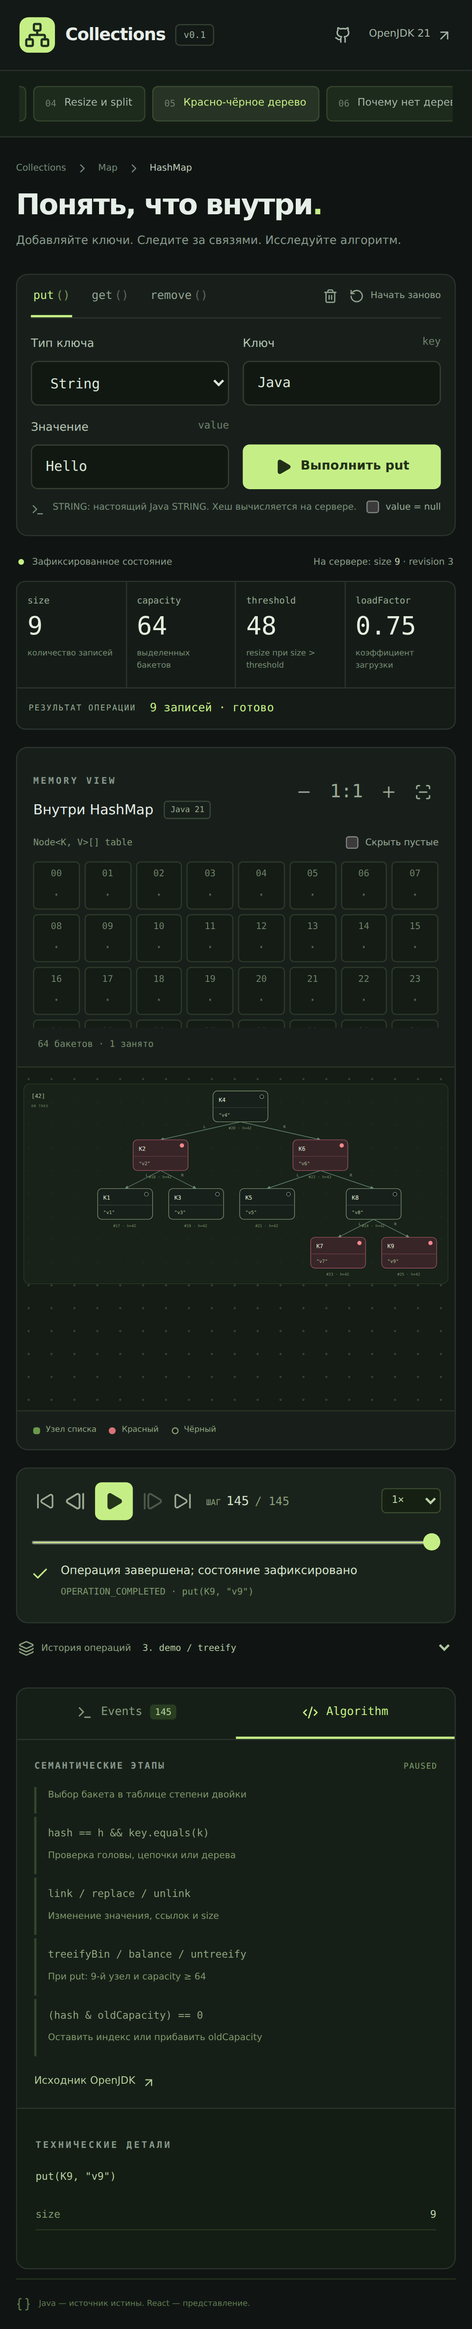
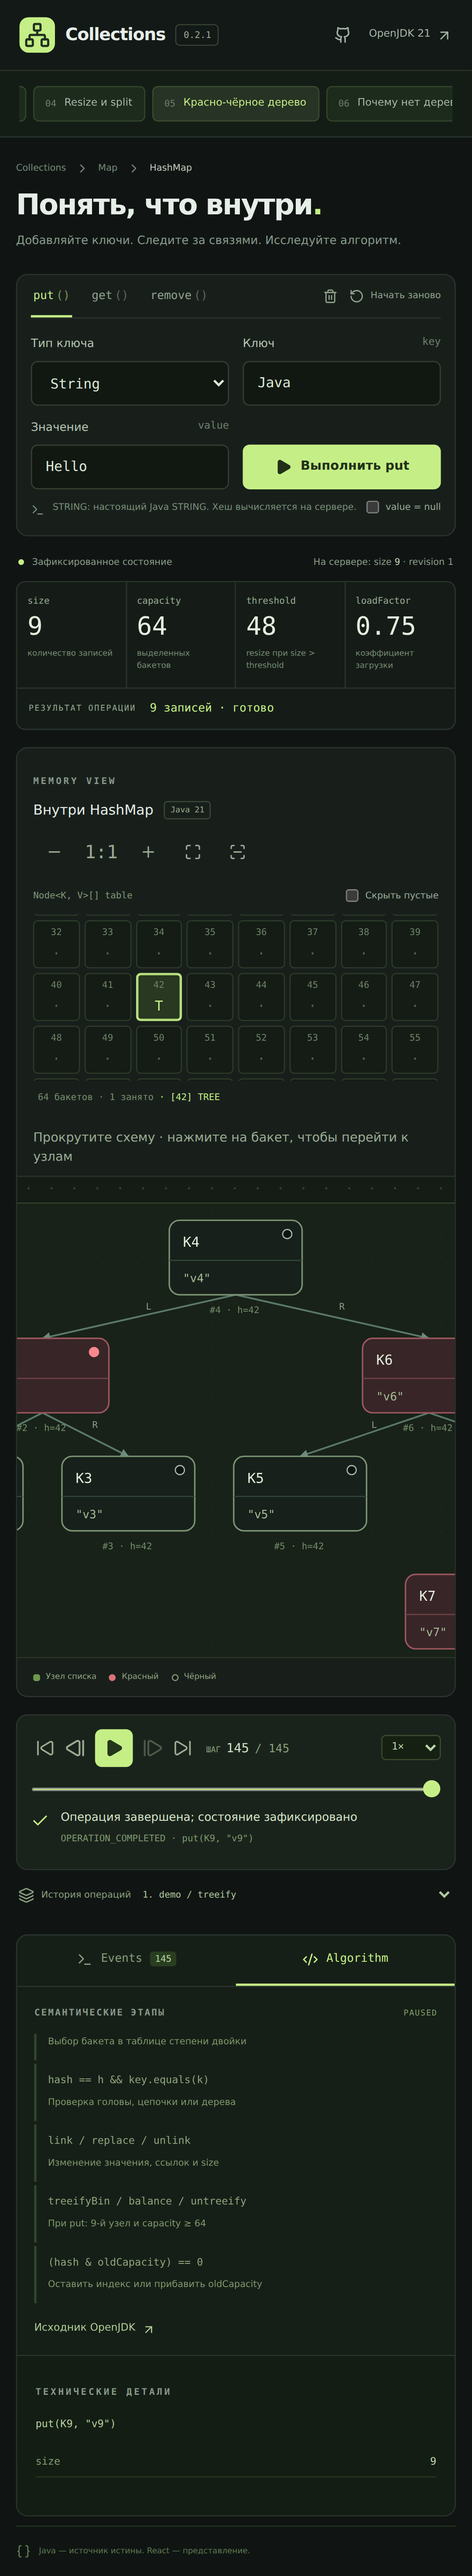
feat: improve mobile HashMap tree navigation (#22)
Keep large tree labels readable on phones, add fit and targeted navigation controls, and cover mobile interactions with E2E tests.

Closes #5

diff --git a/frontend/src/Diagram.tsx b/frontend/src/Diagram.tsx
@@ -1,6 +1,6 @@
 import { useEffect, useMemo, useRef, useState } from "react";
 import { AnimatePresence, motion, useReducedMotion } from "motion/react";
-import { Boxes, Minus, Plus, ScanLine } from "lucide-react";
+import { Boxes, Maximize, Minus, Plus, ScanLine } from "lucide-react";
 import { layoutSnapshot } from "./layout";
 import {
   keyLabel,
@@ -22,7 +22,7 @@ export function Diagram({
   selectedId?: number;
 }) {
   const layout = useMemo(() => layoutSnapshot(state), [state]);
-  const [zoom, setZoom] = useState<number | null>(null);
+  const [zoom, setZoom] = useState<number | "fit" | null>(null);
   const scrollRef = useRef<HTMLDivElement>(null);
   const [viewportWidth, setViewportWidth] = useState(800);
   useEffect(() => {
@@ -34,7 +34,26 @@ export function Diagram({
     observer.observe(element);
     return () => observer.disconnect();
   }, []);
-  const scale = zoom ?? Math.min(1, viewportWidth / layout.width);
+  const [mobile, setMobile] = useState(
+    () => window.matchMedia("(max-width: 680px)").matches,
+  );
+  useEffect(() => {
+    const query = window.matchMedia("(max-width: 680px)");
+    const update = () => setMobile(query.matches);
+    query.addEventListener("change", update);
+    return () => query.removeEventListener("change", update);
+  }, []);
+  const fitScale = Math.min(1, viewportWidth / layout.width);
+  const scale = zoom === "fit" ? fitScale : (zoom ?? (mobile ? 1 : fitScale));
+  const centerOn = (x: number, y: number) => {
+    const element = scrollRef.current;
+    if (!element) return;
+    element.scrollTo({
+      left: (x + 58) * scale - element.clientWidth / 2,
+      top: (y + 32) * scale + 8 - element.clientHeight / 2,
+      behavior: "instant",
+    });
+  };
   const [hideEmpty, setHideEmpty] = useState(false);
   const [focusedBucket, setFocusedBucket] = useState<number | null>(null);
   useEffect(() => {
@@ -93,10 +112,30 @@ export function Diagram({
           </button>
           <button
             className="icon-button"
+            aria-label="Вместить по ширине"
+            title="Вместить по ширине"
+            onClick={() => {
+              setZoom("fit");
+              scrollRef.current?.scrollTo({
+                left: 0,
+                top: 0,
+                behavior: "instant",
+              });
+            }}
+          >
+            <Maximize size={15} />
+          </button>
+          <button
+            className="icon-button"
             aria-label="Сбросить масштаб"
             onClick={() => {
               setZoom(null);
               setFocusedBucket(null);
+              scrollRef.current?.scrollTo({
+                left: 0,
+                top: 0,
+                behavior: "instant",
+              });
             }}
           >
             <ScanLine size={15} />
@@ -122,7 +161,17 @@ export function Diagram({
                 key={i}
                 title={`Бакет ${i}: ${occupied.get(i)?.kind ?? "пустой"}`}
                 className={`bucket-cell ${occupied.has(i) ? "occupied" : ""} ${activeBucket === i || focusedBucket === i ? "active" : ""}`}
-                onClick={() => setFocusedBucket(i === focusedBucket ? null : i)}
+                onClick={() => {
+                  setFocusedBucket(i === focusedBucket ? null : i);
+                  const bucket = occupied.get(i);
+                  const target = layout.nodes.find(
+                    (n) =>
+                      n.bucket === i &&
+                      !n.pending &&
+                      (bucket?.rootId == null || n.node.id === bucket.rootId),
+                  );
+                  if (target) centerOn(target.x, target.y);
+                }}
               >
                 <span className="bucket-index">
                   {String(i).padStart(2, "0")}
@@ -168,7 +217,28 @@ export function Diagram({
           </span>
         </div>
       )}
-      <div className="diagram-scroll" data-testid="diagram" ref={scrollRef}>
+      <div className="diagram-navigation">
+        <span>Прокрутите схему · нажмите на бакет, чтобы перейти к узлам</span>
+        {selectedId !== undefined && positions.has(selectedId) && (
+          <button
+            className="icon-button"
+            onClick={() => {
+              const node = positions.get(selectedId)!;
+              centerOn(node.x, node.y);
+            }}
+          >
+            К выбранному узлу
+          </button>
+        )}
+      </div>
+      <div
+        className="diagram-scroll"
+        data-testid="diagram"
+        ref={scrollRef}
+        tabIndex={0}
+        role="region"
+        aria-label="Прокручиваемая схема HashMap"
+      >
         {layout.nodes.length === 0 && (
           <div className="empty-diagram">
             <div className="empty-icon">

diff --git a/frontend/e2e/diagram-navigation.spec.ts b/frontend/e2e/diagram-navigation.spec.ts
@@ -1,0 +1,88 @@
+import { test, expect } from "@playwright/test";
+
+for (const reducedMotion of ["no-preference", "reduce"] as const) {
+  test(`large tree navigation with ${reducedMotion} motion`, async ({
+    page,
+    isMobile,
+  }) => {
+    await page.emulateMedia({ reducedMotion });
+    if (isMobile && reducedMotion === "reduce")
+      await page.setViewportSize({ width: 320, height: 740 });
+    await page.goto("/");
+    await page.getByRole("button", { name: /05 Красно-чёрное дерево/ }).click();
+    await expect(page.getByTestId("committed-size")).toHaveText("9");
+    await page.getByRole("button", { name: "В конец", exact: true }).click();
+    const diagram = page.getByTestId("diagram");
+    const zoom = page.locator(".zoom-controls > span");
+    await expect(diagram.getByRole("button")).toHaveCount(9);
+    if (isMobile) {
+      await expect(zoom).toHaveText("100%");
+      expect(
+        await diagram.evaluate((el) => el.scrollWidth > el.clientWidth),
+      ).toBe(true);
+      // Labels retain their natural readable size rather than fitting nine nodes to a phone.
+      expect(
+        (await diagram.locator(".svg-key").first().boundingBox())!.height,
+      ).toBeGreaterThanOrEqual(10);
+    } else {
+      await expect
+        .poll(() =>
+          diagram.evaluate((el) => el.scrollWidth <= el.clientWidth + 1),
+        )
+        .toBe(true);
+    }
+    await page
+      .getByRole("button", { name: "Вместить по ширине", exact: true })
+      .click();
+    await expect
+      .poll(() =>
+        diagram.evaluate((el) => el.scrollWidth <= el.clientWidth + 1),
+      )
+      .toBe(true);
+    await page
+      .getByRole("button", { name: "Масштаб 100%", exact: true })
+      .click();
+    await expect(zoom).toHaveText("100%");
+    await page
+      .getByRole("button", { name: "Уменьшить масштаб", exact: true })
+      .click();
+    await expect(zoom).toHaveText("85%");
+    await page
+      .getByRole("button", { name: "Увеличить масштаб", exact: true })
+      .click();
+    await expect(zoom).toHaveText("100%");
+    await diagram.evaluate((el) => {
+      el.scrollLeft = 0;
+    });
+    await page.getByTitle("Бакет 42: TREE", { exact: true }).click();
+    if (isMobile)
+      expect(await diagram.evaluate((el) => el.scrollLeft)).toBeGreaterThan(0);
+    // Choosing a node remains possible in an overflowing diagram.
+    const node = diagram.getByRole("button").first();
+    await node.click();
+    await diagram.evaluate((el) => {
+      el.scrollLeft = el.scrollWidth;
+      el.scrollTop = el.scrollHeight;
+    });
+    await page
+      .getByRole("button", { name: "К выбранному узлу", exact: true })
+      .click();
+    await diagram.scrollIntoViewIfNeeded();
+    await expect(node.locator("rect")).toBeInViewport({ ratio: 1 });
+    await page
+      .getByRole("button", { name: "Сбросить масштаб", exact: true })
+      .click();
+    if (isMobile) await expect(zoom).toHaveText("100%");
+    else
+      await expect
+        .poll(() =>
+          diagram.evaluate((el) => el.scrollWidth <= el.clientWidth + 1),
+        )
+        .toBe(true);
+    expect(
+      await page.evaluate(
+        () => document.documentElement.scrollWidth <= innerWidth,
+      ),
+    ).toBe(true);
+  });
+}

diff --git a/frontend/e2e/visualizer.spec.ts b/frontend/e2e/visualizer.spec.ts
@@ -130,6 +130,8 @@ test("collision, resize, tree, deferred tree and rapid history navigation", asyn
   expect(await page.locator(".black-node").count()).toBeGreaterThan(0);
   await page.getByRole("button", { name: "Algorithm", exact: true }).click();
   await expect(page.locator(".algorithm-list")).toContainText("h ^ (h >>> 16)");
+  if (testInfo.project.name === "mobile")
+    await page.getByTitle("Бакет 42: TREE", { exact: true }).click();
   // Let the SVG transitions settle before saving documentation screenshots.
   await page.waitForTimeout(350);
   if (process.env.UPDATE_SCREENSHOTS && testInfo.project.name === "desktop")

diff --git a/frontend/src/style.css b/frontend/src/style.css
@@ -1862,3 +1862,26 @@ h1 > span {
   inset: 0;
   pointer-events: none;
 }
+
+.diagram-navigation {
+  display: flex;
+  flex-wrap: wrap;
+  align-items: center;
+  gap: 8px;
+  padding: 8px 14px;
+  color: #9bab94;
+  font-size: 11px;
+}
+@media (max-width: 680px) {
+  .visualization .panel-heading {
+    flex-wrap: wrap;
+    gap: 10px;
+  }
+  .zoom-controls .icon-button {
+    min-width: 36px;
+    min-height: 36px;
+  }
+  .diagram-scroll {
+    max-height: 420px;
+  }
+}

diff --git a/docs/ARCHITECTURE.md b/docs/ARCHITECTURE.md
@@ -30,6 +30,15 @@ snapshot. Следующая команда исполняется над **по
 команды отключены, но навигация по истории доступна. При потере ответа клиент
 не повторяет мутацию, а запрашивает актуальное состояние.
 
+## Просмотр диаграммы
+
+На экранах до 680 px начальный масштаб — 100%: большая схема прокручивается
+внутри ограниченного контейнера. На desktop начальный масштаб автоматически
+вписывает схему по ширине. Кнопка «Вместить по ширине» доступна в обоих режимах;
+reset возвращает начальный масштаб и начало прокрутки. Выбор бакета перемещает
+вид к корню дерева или первому узлу списка, а «К выбранному узлу» возвращает
+вид к выбранному узлу. Навигация не меняет trace и не вызывает API.
+
 ## Сценарии и тонкости JDK
 
 | Сценарий | Реальные входные данные |
